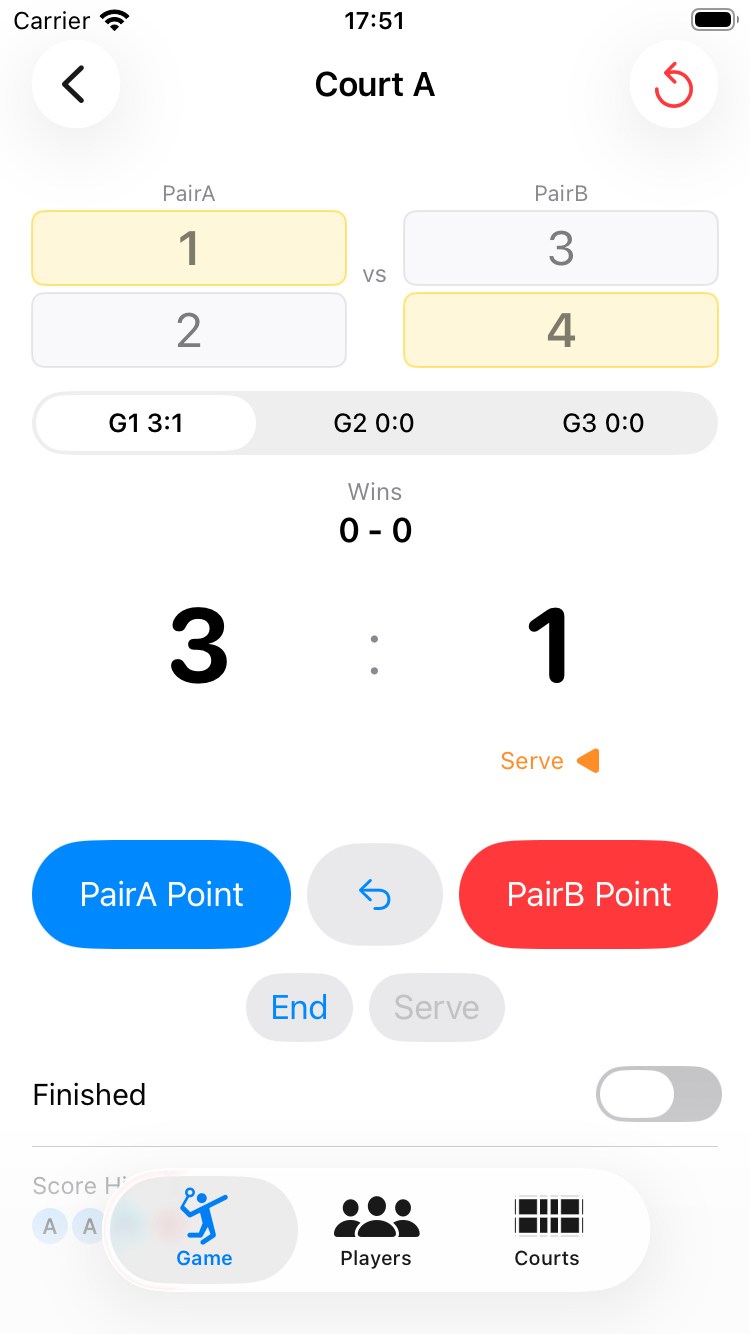
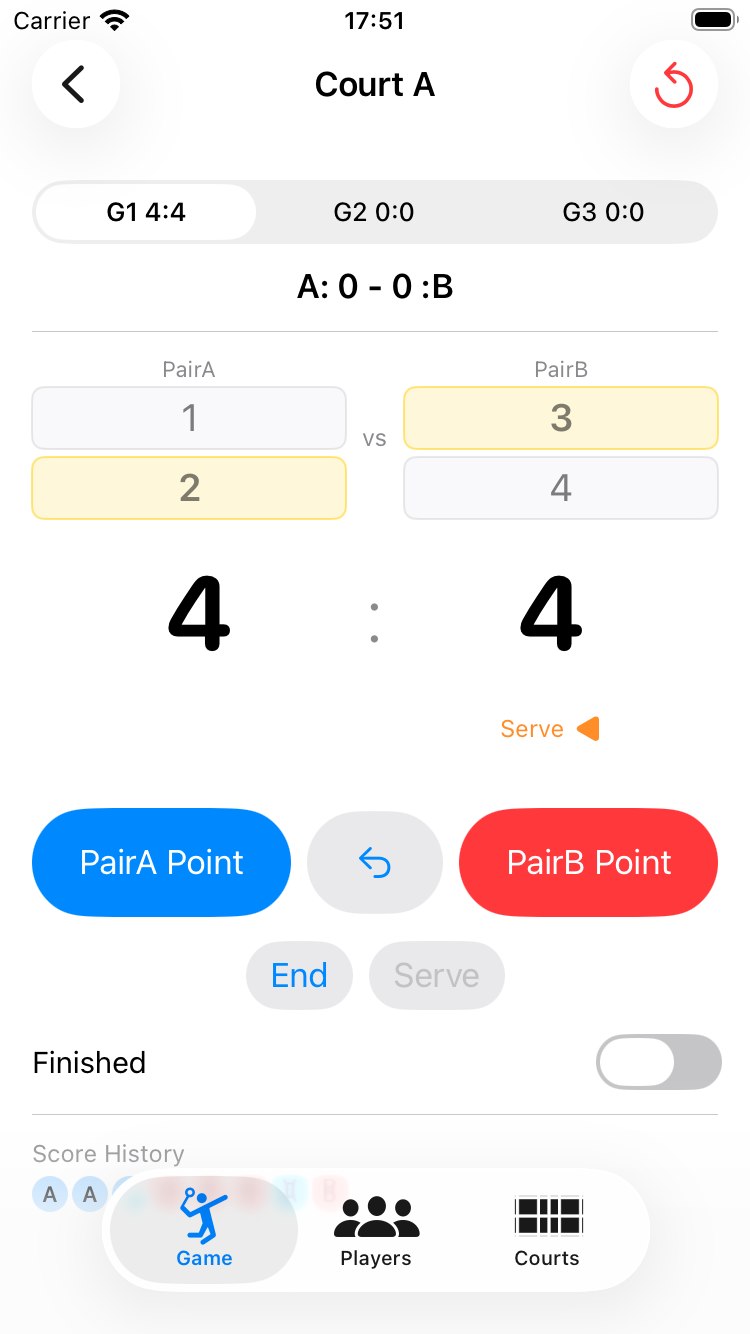
スコア画面の勝ちゲーム数表示の変更をドキュメントに反映
G1/G2/G3タブと同じ位置に移動した勝ちゲーム数表示（A: 0 - 0 :B形式）
に合わせて game-tab.html と更新履歴、スコア画面キャプチャを更新。

diff --git a/game-tab.html b/game-tab.html
@@ -74,7 +74,8 @@
 <div class="tip">💡 プレイヤーごと最初からやり直したい場合は、Players タブの「プレイヤーのリセット」をご利用ください。</div>
 
 <h2 id="score-input">5. スコア入力</h2>
-<p>Game タブのゲーム行をタップすると、スコア入力画面が開きます。上部のプレイヤー表示には、それぞれ <strong>PairA</strong> / <strong>PairB</strong>（内部の pairA・pairB に対応）のラベルが付きます。</p>
+<p>Game タブのゲーム行をタップすると、スコア入力画面が開きます。画面上部には、そのコートで何ゲーム目かを切り替える <code>G1 / G2 / G3</code> ピッカーと、ここまでの勝ちゲーム数（<code>A: 0 - 0 :B</code>）が表示されます。いずれも常に <strong>PairA:PairB</strong> の順で固定表示され、後述のエンドチェンジを行っても入れ替わりません。</p>
+<p>その下のプレイヤー表示には、それぞれ <strong>PairA</strong> / <strong>PairB</strong>（内部の pairA・pairB に対応）のラベルが付きます。こちらはエンドチェンジで実際の左右位置が入れ替わると、表示も一緒に切り替わります。</p>
 <div class="ss"><img src="images/score-main.png" alt="スコア入力画面"></div>
 
 <h3 id="input-score">得点を入力する</h3>
@@ -86,10 +87,10 @@
 <p><code>↩</code>（取り消し）ボタンで直前の得点を1点ずつ取り消せます。</p>
 
 <h3 id="switch-game">ゲームを切り替える</h3>
-<p>画面左側のセグメントピッカー（<code>G1 / G2 / G3</code>）で第1ゲーム・第2ゲーム・第3ゲームを切り替えます。</p>
+<p>画面上部のセグメントピッカー（<code>G1 / G2 / G3</code>）で第1ゲーム・第2ゲーム・第3ゲームを切り替えます。ここに表示されるスコアも <strong>PairA:PairB</strong> の順で固定表示されます。</p>
 
 <h3 id="finish-game">ゲーム終了を記録する</h3>
-<p><code>Finished</code>（終了）トグルをオンにするとそのゲームが終了扱いになり、勝利ゲーム数に反映されます。</p>
+<p><code>Finished</code>（終了）トグルをオンにするとそのゲームが終了扱いになり、画面上部の勝ちゲーム数（<code>A: 0 - 0 :B</code>）に反映されます。</p>
 
 <h3 id="end-change">エンドチェンジ</h3>
 <p><code>End</code>（エンド）ボタンをタップすると、左右のペアが入れ替わります（エンドチェンジ）。<strong>PairA</strong> / <strong>PairB</strong> のラベルや得点ボタンの表示も、実際にどちらの位置にいるかに合わせて自動的に入れ替わります。スコア履歴のドットも自動で反転します。</p>

diff --git a/update-history.html b/update-history.html
@@ -24,6 +24,7 @@
   <li>スコア入力画面のプレイヤー表示に PairA / PairB のラベルを追加し、どちらのペアかを一目で分かるように変更。得点ボタンも「L Point」「R Point」から「PairA Point」「PairB Point」に変更（エンドチェンジに応じて表示が自動的に入れ替わります）</li>
   <li>スコア履歴の表示、および結果メールのペア表記・得点シーケンスも L/R から A/B（PairA/PairB）表記に統一</li>
   <li>スコア画面のゲーム切り替えタブ（G1/G2/G3）のスコア表示が、エンドチェンジのたびに左右入れ替わって表示されてしまう不具合を修正（常に PairA:PairB の順で固定表示）</li>
+  <li>スコア画面の勝ちゲーム数の表示も、同様にエンドチェンジで入れ替わってしまう不具合を修正し、「A: 0 - 0 :B」の形式で常に固定表示するよう変更。ゲーム切り替えタブと合わせて画面上部に配置</li>
 </ul>
 
 <h2>v1.19.0</h2>
